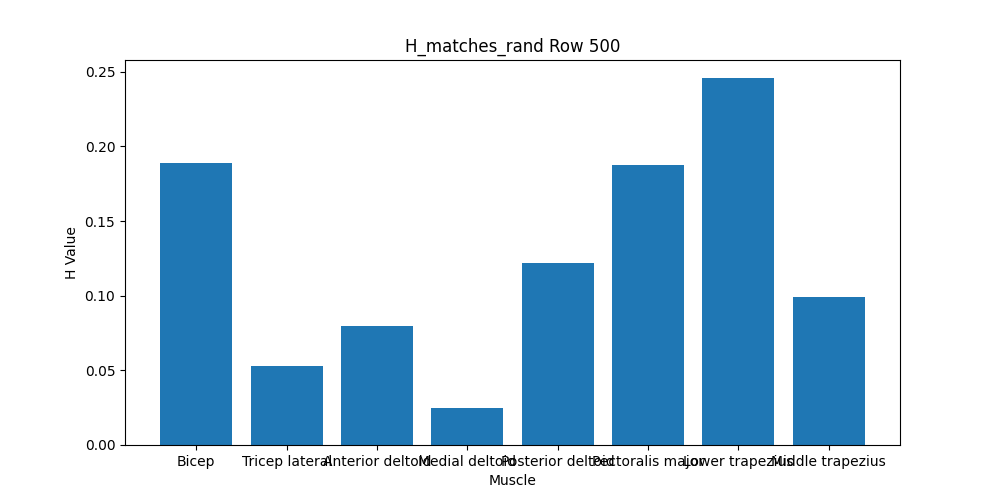
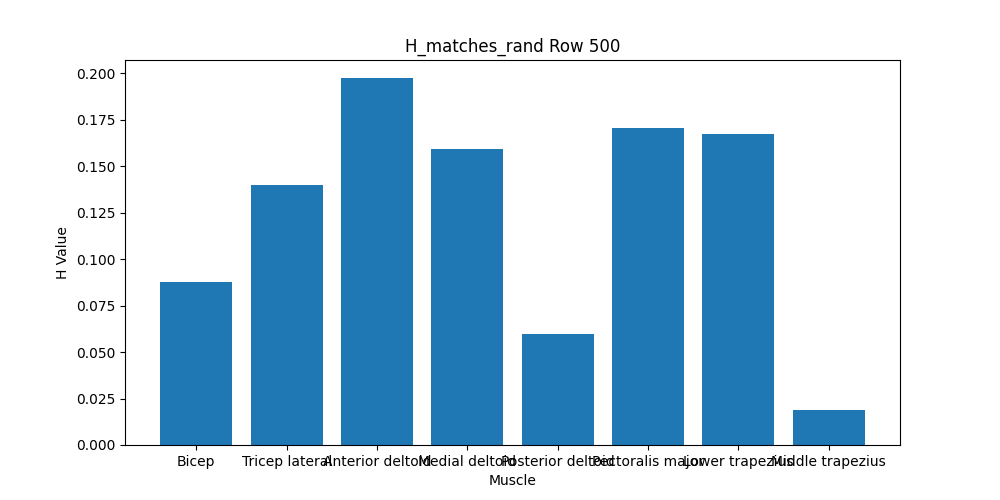
minor cleanups

diff --git a/src/script/find_similar_synergies.py b/src/script/find_similar_synergies.py
@@ -22,14 +22,14 @@ def find_all_Hs(data):
         match_df = pd.read_csv(mat)
         #all_participants = ['c02', 'c04', 'c05', 'c07', 'c08', 'c09', 'c10'] # omitted c06 for now
         #all_tasks = ['10%', '30%', '50%']
-        # Use one participant and one task for now
+        # Group by task
         all_participants = ['c02']
-        all_tasks = ['50%']
+        all_tasks = ['30%']
         for participant in all_participants:
             for task in all_tasks:
                 load_data = match_df.loc[(match_df['Task'] == task) & (match_df['Su'] != 'c06')]
                 load_emg = load_data.loc[:, 'Bicep':'MidTrap'].values
-                """
+
                 curr_mean = 0
                 VAF_best = 0
                 H_best = 0
@@ -45,7 +45,7 @@ def find_all_Hs(data):
                     Hs_all_ranks.append(H_m)
                     if np.any(l_mean < 80) or g_mean < 90:
                         continue
-                    elif g_mean - curr_mean < 3:
+                    elif g_mean - curr_mean >= 3:
                         curr_mean = g_mean
                         VAF_best = VAF_m
                         H_best = H_m
@@ -53,6 +53,7 @@ def find_all_Hs(data):
                         rank_chosen = rank
                     else:
                         continue
+
                 # If none of the ranks have g_mean > 90 and np.all(l_mean) > 80)
                 if type(H_best) == int: # still same as its initialized value --> no optimal H has been found yet
                     print("entered second round selection")
@@ -66,25 +67,7 @@ def find_all_Hs(data):
                         H_best = []
                         print("No H satisfies the criteria.")
                         continue
-                """
 
-                curr_mean = 0
-                VAF_best = 0
-                H_best = 0
-                W_best = 0
-                rank_chosen = 0
-                for rank in range(2, 5):
-                    g_mean, l_mean, VAF_m, H_m, W_m = rank_determine_helper(100, load_emg, rank)
-                    if np.any(l_mean < 80):
-                        continue
-                    elif g_mean - curr_mean >= 3:
-                        curr_mean = g_mean
-                        VAF_best = VAF_m
-                        H_best = H_m
-                        W_best = W_m
-                        rank_chosen = rank
-                    else:
-                        continue
 
                 print('best number of synergy chosen is: ', rank_chosen)
                 print('H_best is:\n', H_best)
@@ -114,12 +97,8 @@ def find_all_Hs(data):
         axs[int(emg_count/4), emg_count % 4].set_title(title_str)
         axs[int(emg_count / 4), emg_count % 4].set_xlabel('EMG H Value')
         axs[int(emg_count / 4), emg_count % 4].set_ylabel('Frequency')
-    plt.savefig('H_matches histogram')
+    plt.savefig('H_matches histogram for ' + str(task) + ' task')
     plt.show()
-
-
-
-
 
     return H_refs, H_matches
 
@@ -129,6 +108,8 @@ def scalar_prod_similarity_normal():
 
     # Find Hs for all the datasets
     H_refs, H_matches = find_all_Hs(datasets)
+    if H_refs == None or H_matches == None:
+        return
 
     # Generate the random matrices
     num_emgs = 8
@@ -193,8 +174,8 @@ def scalar_prod_similarity_normal():
     if rank < len(syn_pairs_same_participant_and_task):
         syn_pairs_same_participant_and_task = syn_pairs_same_participant_and_task[-rank:]
     print("syn_pairs_same_participant_and_task: " + str(syn_pairs_same_participant_and_task))
-    percent_same_participant_and_task = ((len(syn_pairs_same_participant_and_task) / len(participant_synergy_pairs)) * 100) if len(participant_synergy_pairs) != 0 else 'nan'
-    print("percent_same_participant_and_task: " + str(percent_same_participant_and_task))
+    #percent_same_participant_and_task = ((len(syn_pairs_same_participant_and_task) / len(participant_synergy_pairs)) * 100) if len(participant_synergy_pairs) != 0 else 'nan'
+    #print("percent_same_participant_and_task: " + str(percent_same_participant_and_task))
 
 
 def scalar_prod_similarity_truncnorm():
@@ -202,6 +183,8 @@ def scalar_prod_similarity_truncnorm():
 
     # Find Hs for all the datasets
     H_refs, H_matches = find_all_Hs(datasets)
+    if H_refs == None or H_matches == None:
+        return
 
     # Generate the random matrices
     num_emgs = 8
@@ -276,8 +259,8 @@ def scalar_prod_similarity_truncnorm():
     if rank < len(syn_pairs_same_participant_and_task):
         syn_pairs_same_participant_and_task = syn_pairs_same_participant_and_task[-rank:]
     print("syn_pairs_same_participant_and_task: " + str(syn_pairs_same_participant_and_task))
-    percent_same_participant_and_task = ((len(syn_pairs_same_participant_and_task) / len(participant_synergy_pairs)) * 100) if len(participant_synergy_pairs) != 0 else 'nan'
-    print("percent_same_participant_and_task: " + str(percent_same_participant_and_task))
+    #percent_same_participant_and_task = ((len(syn_pairs_same_participant_and_task) / len(participant_synergy_pairs)) * 100) if len(participant_synergy_pairs) != 0 else 'nan'
+    #print("percent_same_participant_and_task: " + str(percent_same_participant_and_task))
 
 def scalar_prod_similarity_uniform():
     datasets = np.array(['../data/referenceData_121120.csv', '../data/matchData_121120.csv'])
@@ -286,6 +269,8 @@ def scalar_prod_similarity_uniform():
     H_refs, H_matches = find_all_Hs(datasets)
     print("H_refs: " + str(H_refs))
     print("H_matches: " + str(H_matches))
+    if H_refs == None or H_matches == None:
+        return
 
     plt.rcParams["figure.figsize"] = (8, 6)
     fig, axs = plt.subplots(2, 2)
@@ -409,9 +394,9 @@ def scalar_prod_similarity_uniform():
     if rank < len(syn_pairs_same_participant_and_task):
         syn_pairs_same_participant_and_task = syn_pairs_same_participant_and_task[-rank:]
     print("syn_pairs_same_participant_and_task: " + str(syn_pairs_same_participant_and_task))
-    print("syn_pairs_same_participant_and_task: " + str(syn_pairs_same_participant_and_task))
-    percent_same_participant_and_task = ((len(syn_pairs_same_participant_and_task) / len(participant_synergy_pairs)) * 100) if len(participant_synergy_pairs) != 0 else 'nan'
-    print("percent_same_participant_and_task: " + str(percent_same_participant_and_task))
+    #print("syn_pairs_same_participant_and_task: " + str(syn_pairs_same_participant_and_task))
+    #percent_same_participant_and_task = ((len(syn_pairs_same_participant_and_task) / len(participant_synergy_pairs)) * 100) if len(participant_synergy_pairs) != 0 else 'nan'
+    #print("percent_same_participant_and_task: " + str(percent_same_participant_and_task))
 
 
 if __name__ == "__main__":
